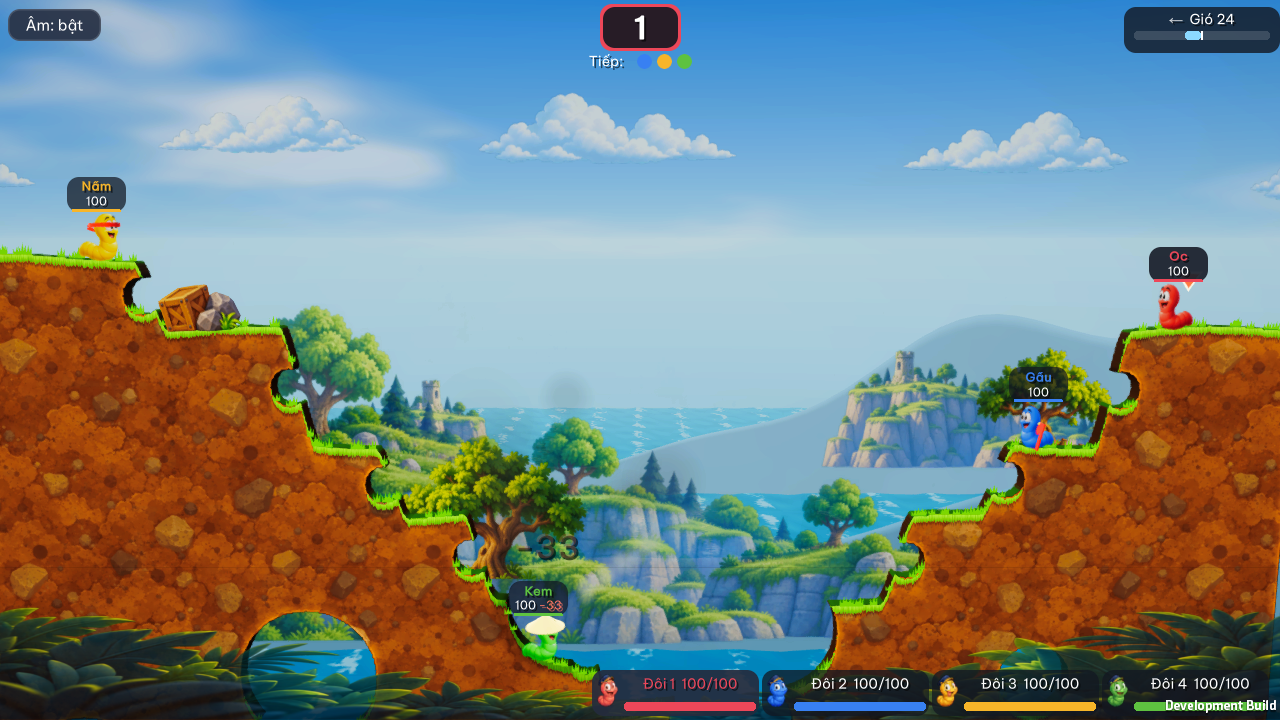
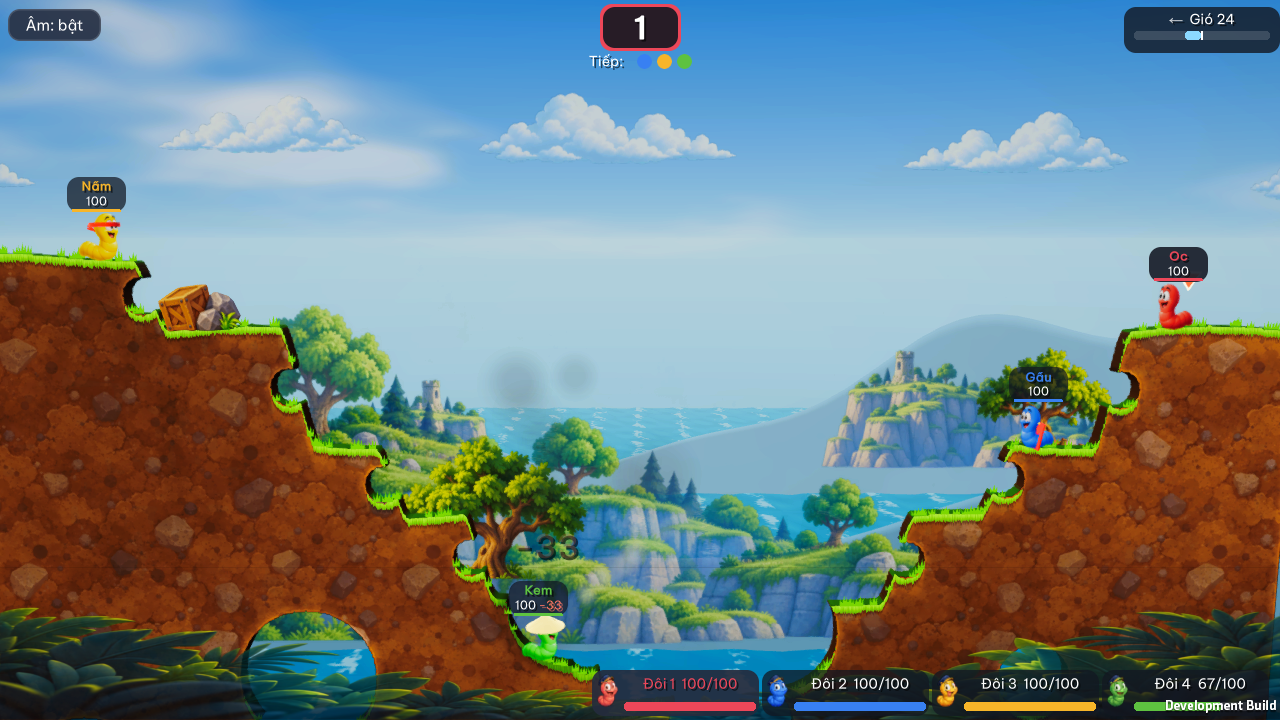
Deepen painted soil and show pending damage in team HUD

diff --git a/client/Assets/Game/UI/Hud.cs b/client/Assets/Game/UI/Hud.cs
@@ -225,7 +225,9 @@ namespace Worms.Game.UI
                 {
                     if (worm.Team != t) continue;
                     members++;
-                    if (worm.Alive) hp += worm.Hp;
+                    // Simulation settles damage at turn end; show the health
+                    // players can already see in the hit popup and worm label.
+                    if (worm.Alive) hp += Mathf.Max(0, worm.Hp - worm.PendingDamage);
                 }
                 float healthLeft = compact ? safe.center.x - barW * teams / 2
                     : safe.xMax - barW * teams - u * 0.55f;

diff --git a/README.md b/README.md
@@ -8,7 +8,7 @@ Kế hoạch đầy đủ: [docs/PLAN.md](docs/PLAN.md). Deploy: [docs/DEPLOY.md
 
 Game đang hướng tới phong cách hoạt hình sắc nét của [ảnh tham chiếu được chọn](docs/visuals/approved-cartoon-reference.png): địa hình có lớp đất và mép cỏ, biển và đảo nhiều lớp, sâu có biểu cảm, hiệu ứng đạn/nổ, HUD và menu cùng bảng màu. Bản chạy hiện tại chưa đạt mức chi tiết và bố cục của ảnh mẫu. Có hai cảnh Beach và Meadow, ba mức chất lượng Low/Medium/High và tùy chọn giảm chuyển động. Nguồn gốc các asset được ghi trong [assets-src/CREDITS.md](assets-src/CREDITS.md).
 
-Nhánh `feat/concept-character-rebuild` đã thêm hình sâu cho bốn đội, thung lũng ở giữa bản đồ, đạo cụ tránh điểm xuất hiện, lá tiền cảnh, hiệu ứng nổ vẽ tay và HUD desktop. Ảnh dưới chụp từ **development preview build Windows thật**, seed `123456`, chế độ bốn đội mỗi đội một sâu, bằng Unity 6000.3.25f1 trên desktop tách biệt để không lấy focus. Vách địa hình đã được làm thoải hơn trong dữ liệu va chạm thật; tên lửa, khói, va chạm và hố nổ đã được chụp trong lượt bắn thực. Đây là tiến độ đang kiểm tra, chưa phải bản đồ họa được nghiệm thu: bậc đất còn đều, sâu nhỏ trong khung hình, trời chiếm nhiều diện tích và chất liệu cảnh vẫn khác concept; các trạng thái khác và hiệu năng trên thiết bị cần đối chiếu thêm.
+Nhánh `feat/concept-character-rebuild` đã thêm hình sâu cho bốn đội, thung lũng ở giữa bản đồ, đạo cụ tránh điểm xuất hiện, lá tiền cảnh, hiệu ứng nổ vẽ tay và HUD desktop. Ảnh dưới chụp từ **development preview build Windows thật**, seed `123456`, chế độ bốn đội mỗi đội một sâu, bằng Unity 6000.3.25f1 trên desktop tách biệt để không lấy focus. Vách địa hình đã được làm thoải hơn trong dữ liệu va chạm thật; đất được phối nâu trầm hơn, HUD hiển thị sát thương đang chờ xử lý; tên lửa, khói, va chạm và hố nổ đã được chụp trong lượt bắn thực. Đây là tiến độ đang kiểm tra, chưa phải bản đồ họa được nghiệm thu: bậc đất còn đều, sâu nhỏ trong khung hình, trời chiếm nhiều diện tích và chất liệu cảnh vẫn khác concept; các trạng thái khác và hiệu năng trên thiết bị cần đối chiếu thêm.
 
 ![Cảnh chiến đấu preview bốn đội với HUD](docs/visuals/concept-rebuild-battle-preview.png)
 

diff --git a/docs/GRAPHICS_HANDOFF.md b/docs/GRAPHICS_HANDOFF.md
@@ -52,6 +52,8 @@ The four-team preview now shows red, blue, yellow and green worms on opposing sh
 
 The seed 123456 central valley has dry land above the waterline, confirmed by a focused simulation test. Moving the overview camera downward brought the left cliff too close to the top edge, so that experiment was reverted. Removing the generated round caves changed safe spawn positions and pushed two worms near the water; that map experiment was also reverted. The current captures and gameplay geometry retain the previously validated four-team composition.
 
+The current Medium/High terrain shader grades the generated orange soil texture toward deeper brown and adds broad value variation. A Windows player capture at seed 123456 shows that the grass lip and carved edge remain readable after the shot; Low tier still uses its procedural soil treatment and needs a separate visual pass. The team HUD now subtracts pending damage immediately, so the green team reads `67/100` during the captured `-33` hit instead of showing `100/100` until turn settlement. WebGL shader performance after this change remains unmeasured.
+
 The user's later screenshot exposed a mistaken handoff: the displayed match camera image did not represent the opening menu, and the live world was further from this concept than the handoff implied. The earlier [match camera](visuals/world-current-fixed-seed.png) and [menu camera](visuals/menu-integrated-camera.png) are historical hidden Windows player renders from Unity 6000.3.25f1. They omit IMGUI and are superseded by the screenshots above.
 
 This pass adds a repeating painted-soil texture (Medium/High match tiers), non-colliding scenery cutouts, camera framing for group and portrait play, and a menu composition that reveals the coastal painting. Low match tier keeps the procedural soil shader. Trees and crates now refresh their ground anchor after explosions, hiding if the ground drops too far. With the user's approval to change movement, the seed-based simulation map forms broad terraces, a central basin and cliffs; spawns require a short level shelf in both directions. Normal jumps cannot cross every wall, and players may need a backflip or a mobility weapon. The protocol version is **9** so an older client cannot reconstruct the changed map or spawn distribution from the same seed during an online match.
